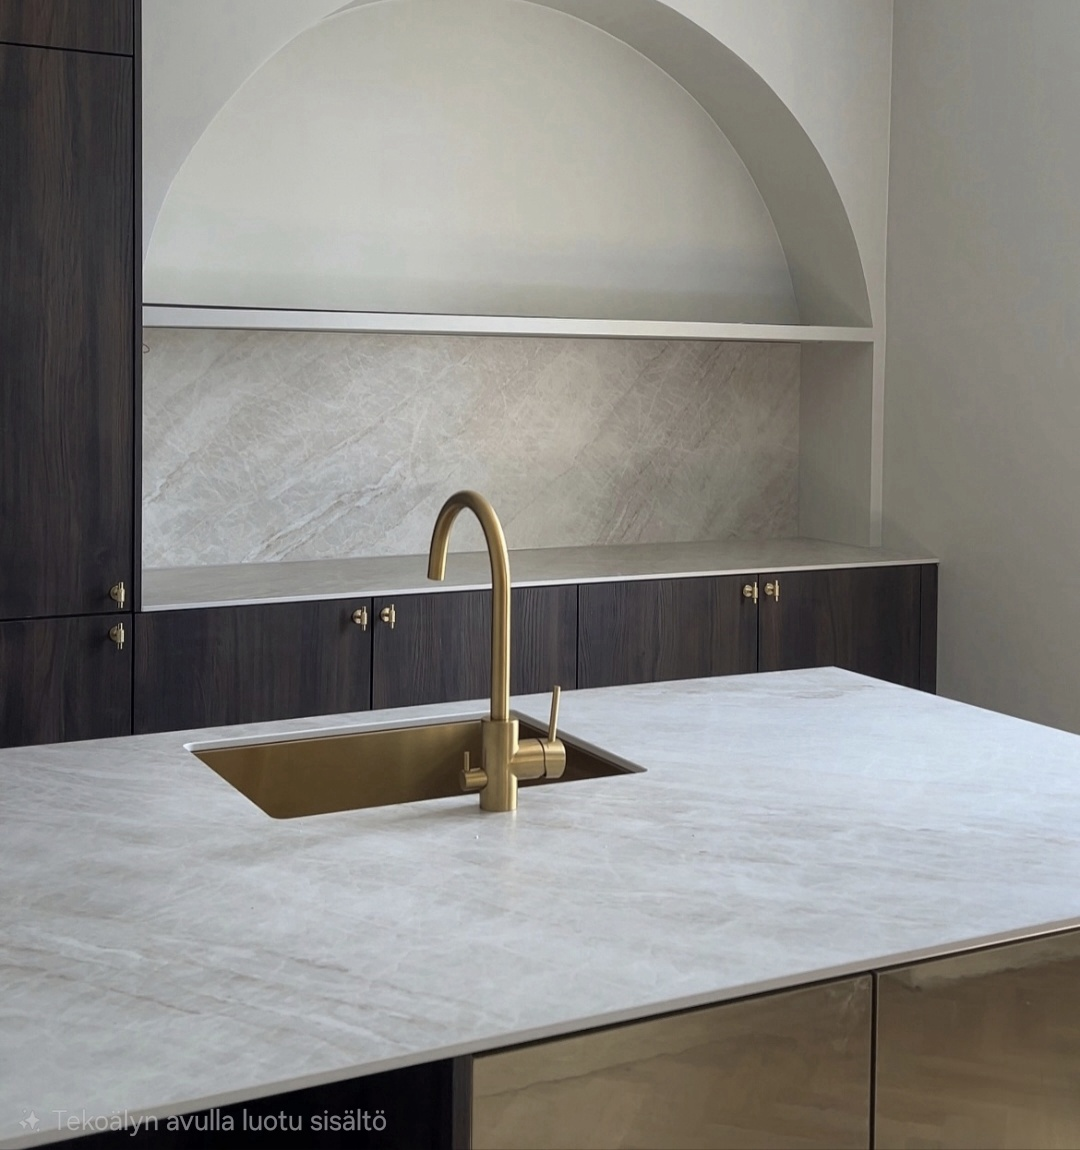
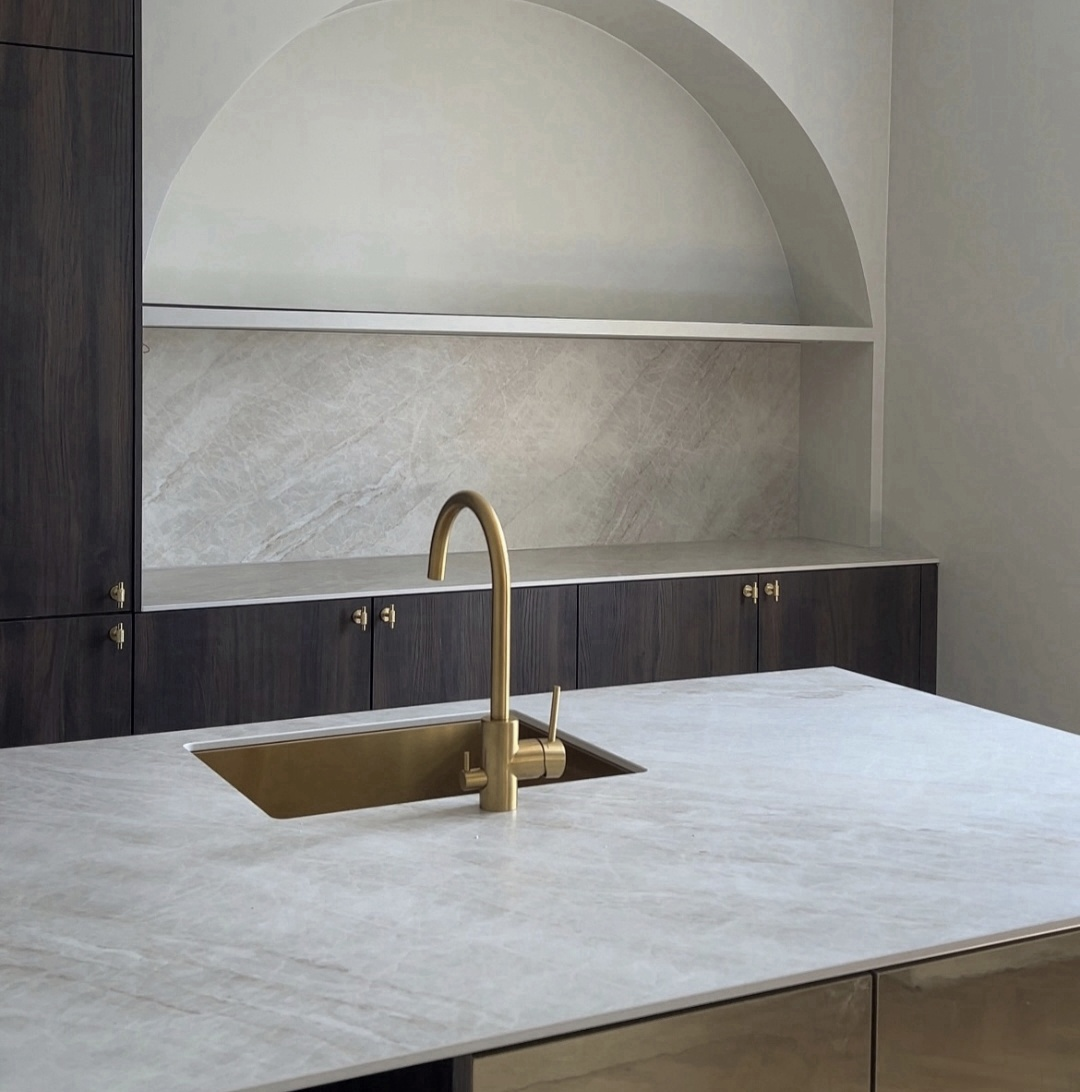
Päivitä kohteet, sisäpiiri-lomake, copyright 2026

diff --git a/havenia.html b/havenia.html
@@ -815,7 +815,7 @@
       <div class="kohde-info reveal">
         <div class="kohde-status">Tulossa myyntiin</div>
         <div class="kohde-name">Havenia<br>Tuulensuu</div>
-        <p>Täysin uudelleen remontoitu kohde arvostettua Tuulensuuta — 6. kerroksessa. Tilasuunnittelu, materiaalit ja kokonaisuus harkittu alusta loppuun.</p>
+        <p>Täysin uudelleen remontoitu kohde arvostettussa Tuulensuun talossa ja 6. kerroksessa. Tilasuunnittelu, materiaalit ja kokonaisuus harkittu alusta loppuun.</p>
 
         <div class="kohde-specs">
           <div class="spec-row">
@@ -881,12 +881,16 @@
     <p class="sisapiiri-sub">Havenia-sisäpiiri on pieni joukko ihmisiä, jotka kuulevat uusista kohteista ennen muita. He saavat ensimmäisenä tiedon, ensimmäisenä kutsun tutustua — ja ensimmäisenä mahdollisuuden tehdä päätöksen rauhassa, ennen kuin kohde tulee julkiseen myyntiin.</p>
     <p class="sisapiiri-sub2">Ei joukkoviestejä. Ei melua. Vain olennainen, oikeaan aikaan.</p>
 
-    <div class="sisapiiri-form">
+    <div class="sisapiiri-form" id="sisapiiri-form">
       <div class="form-row">
-        <input type="email" class="sisapiiri-input" placeholder="Sähköpostiosoitteesi" />
-        <button class="sisapiiri-btn">Liity sisäpiiriin</button>
+        <input type="email" class="sisapiiri-input" id="sisapiiri-email" placeholder="Sähköpostiosoitteesi" />
+        <button class="sisapiiri-btn" onclick="liitySisapiiriin()">Liity sisäpiiriin</button>
       </div>
       <div class="sisapiiri-note">Voit poistua listalta milloin tahansa. Tietojasi ei luovuteta eteenpäin.</div>
+    </div>
+    <div id="sisapiiri-kiitos" style="display:none; text-align:center; padding: 40px 0;">
+      <div style="font-family:'Cormorant',serif; font-size:28px; color:var(--cream); margin-bottom:16px;">Kiitos liittymisestä.</div>
+      <div style="font-size:16px; color:rgba(200,191,176,0.6); line-height:1.8;">Palaamme sinulle, kun meillä on sisäpiirille tiedotettavaa.</div>
     </div>
 
     <div class="sisapiiri-features">
@@ -932,7 +936,7 @@
 <!-- FOOTER -->
 <footer>
   <div class="footer-logo">Havenia</div>
-  <div class="footer-copy">© 2025 Havenia. Kaikki oikeudet pidätetään.</div>
+  <div class="footer-copy">© 2026 Havenia. Kaikki oikeudet pidätetään.</div>
 </footer>
 
 <script>
@@ -941,6 +945,15 @@
   window.addEventListener('scroll', () => {
     navbar.classList.toggle('scrolled', window.scrollY > 60);
   });
+
+  // Sisäpiiri-lomake
+  function liitySisapiiriin() {
+    const email = document.getElementById('sisapiiri-email').value.trim();
+    if (!email) { alert('Syötä sähköpostiosoitteesi.'); return; }
+    window.location.href = 'mailto:info@havenia.fi?subject=Liityn%20Havenia%20sis%C3%A4piiriin&body=S%C3%A4hk%C3%B6postiosoitteeni%3A%20' + encodeURIComponent(email);
+    document.getElementById('sisapiiri-form').style.display = 'none';
+    document.getElementById('sisapiiri-kiitos').style.display = 'block';
+  }
 </script>
 
 </body>
